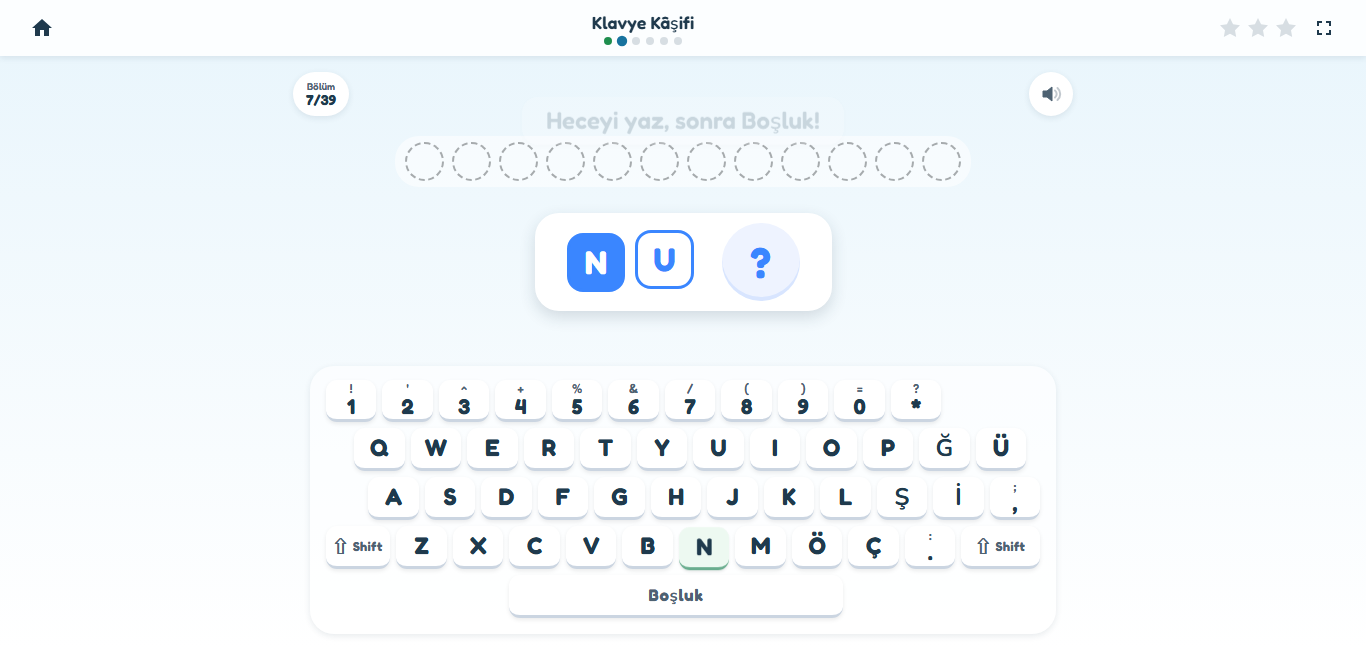
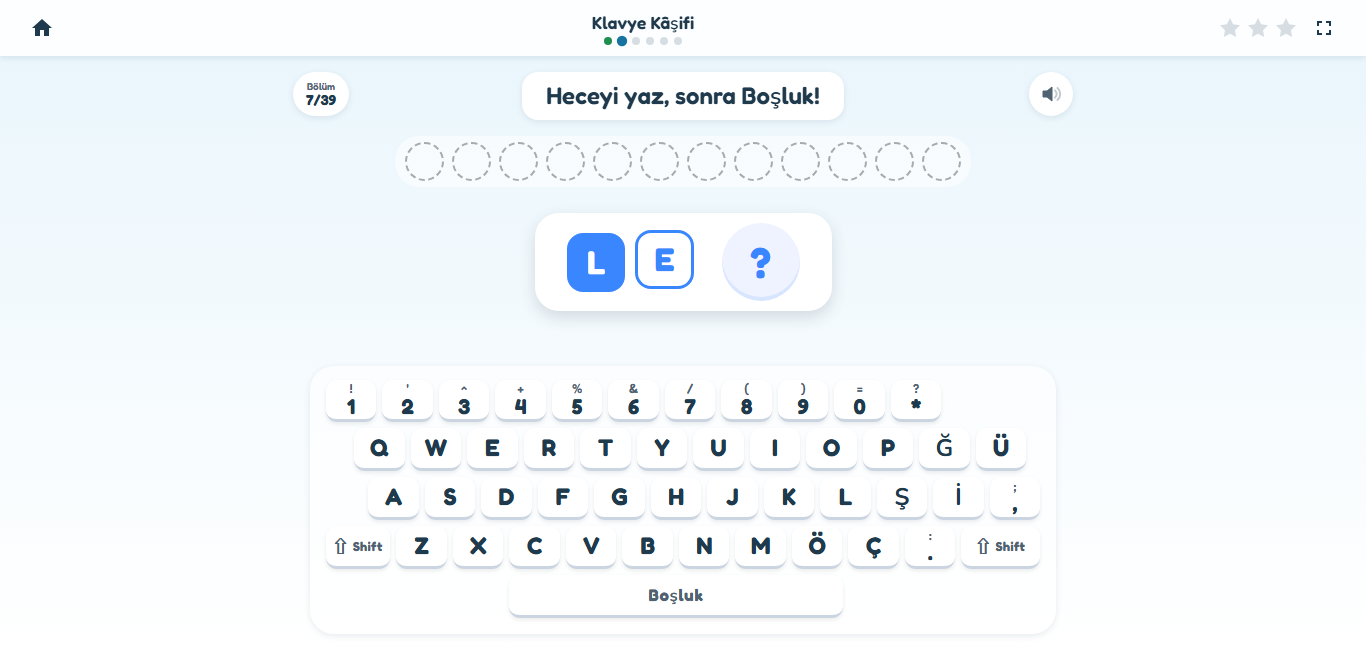
fix(klavye-kasifi): geçiş şeridi telefonda tam genişlik (width: max-content) + kanıt
İnceleme bulgusu: left:50% ile mutlak konumlu şeridin kendiliğinden genişliği kapsayıcının yarısına
iniyordu; 360 px'te başlık iki, alt satır dört satıra kırılıyordu. Kanıt görüntüleri animasyon
bitince yeniden alındı, 13-kisim-seridi-360x640.png eklendi.

Changed region(s): [[0.3997, 0.1231, 0.6149, 0.2154], [0.4305, 0.3692, 0.4919, 0.4308], [0.4919, 0.8308, 0.5227, 0.8923]]

diff --git a/css/klavye-kasifi.css b/css/klavye-kasifi.css
@@ -390,6 +390,7 @@
     left: 50%;
     top: 30%;
     z-index: 5;
+    width: max-content;                /* left:50% ile kendiliğinden genişlik yarıya inerdi (telefonda başlık kırılıyordu) */
     max-width: calc(100% - 32px);
     padding: 14px 26px;
     border-radius: var(--r-kart);

diff --git a/docs/kanit/klavye-kasifi-2026-10-13/README.md b/docs/kanit/klavye-kasifi-2026-10-13/README.md
@@ -18,6 +18,7 @@ Görüntüler Playwright (Chromium, `reducedMotion: reduce`, `page.clock` ile du
 | 10 | `10-cumleler-360x640.png` | Dikey telefon |
 | 11 | `11-en-uzun-paragraf-360x640.png` | En uzun içerik (102 karakter) dikey telefonda tek ekran |
 | 12 | `12-en-uzun-paragraf-640x360-yatay.png` | En uzun içerik yatay telefonda tek ekran (alçak görünümde tuş 27 px) |
+| 13 | `13-kisim-seridi-360x640.png` | Kısım şeridi telefonda tam genişlik (inceleme bulgusu: `left: 50%` kendiliğinden genişliği yarıya indiriyordu → `width: max-content`) |
 
 En uzun paragrafla ek ölçüm (taşma 0): 1366×650, 1280×600, 360×640, 320×568, 768×1024, 640×360.
 
@@ -42,3 +43,9 @@ kısım şeridi 2,8 sn) ≈ 8,6 dk. Hatasız ve okuma/arama payı sıfır **alt 
   eski `onComplete` çağrılınca "Harfler kısmı düğmesiz biter" testi kırmızı (katman kısım ortasında açıldı).
 - `npm run test:smoke` + `test:dialog` + `test:hub-ia` 96/96 · `npm run lint` 0 hata · `catalog:check` OK ·
   `build:check` OK · `python seo/test_build_seo.py` 42/42.
+
+## Kabul geçidi (kod incelemesi)
+
+Bağımsız inceleme (durum makinesi, zamanlayıcı temizliği, `onLevelUp`, `resolveKey` ↔ TR Q kapağı, Shift, içerik, CSS):
+yüksek güvenli hata yok. Düşük güvenli iki not: (1) telefonda şerit dar → düzeltildi (13); (2) son katmandaki
+"Tekrar Oyna" motorun genel davranışıyla son kısmı (Noktalama) yeniden başlatır — bilinçli bırakıldı, hub kartı hep baştan açar.
